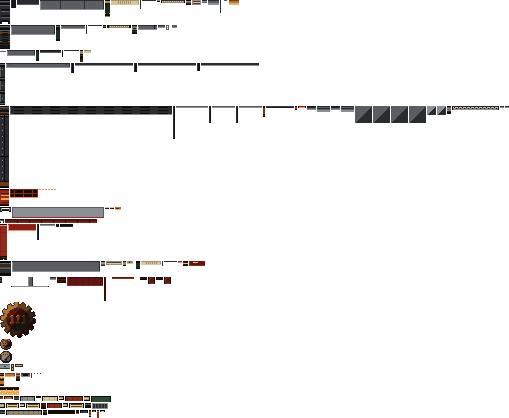
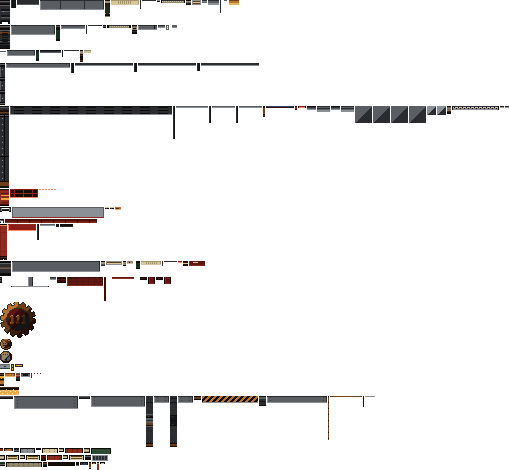
View: vault 39° art: the vault door in volumes

diff --git a/docs/sprites/vault.md b/docs/sprites/vault.md
@@ -176,6 +176,7 @@ To discuss a sprite, open a **Sprite** issue (New issue → Sprite) and paste th
 | <a id="faces-censer"></a>`FACES.CENSER` | 5×2.5 | CENSER, 39° view only: shade top, cage side, cage top. Source: `ui/art/vault/faces.png` | <img src="vault/FACES.CENSER.png" height="32"> |
 | <a id="faces-candles"></a>`FACES.CANDLES` | 2×6.5 | CANDLES, 39° view only: lantern side, lantern top, flare box side, flare box top, flares side, flares top. Source: `ui/art/vault/faces.png` | <img src="vault/FACES.CANDLES.png" height="52"> |
 | <a id="faces-brazier"></a>`FACES.BRAZIER` | 9.5×4 | BRAZIER, 39° view only: barrel top. Source: `ui/art/vault/faces.png` | <img src="vault/FACES.BRAZIER.png" height="32"> |
+| <a id="faces-gate"></a>`FACES.GATE` | 6.5×1.5 | GATE, 39° view only: sill side, sill top, step side, step top, pier L side, pier L top, pier R side, pier R top, threshold side, threshold top, lintel side, lintel top, leaves side, leaves top, panel side, panel top. Source: `ui/art/vault/faces.png` | <img src="vault/FACES.GATE.png" height="160"> |
 | <a id="faces-books"></a>`FACES.BOOKS` | 1.5×1.5 | BOOKS, 39° view only: holotape side, holotape top, case side, case top, sheets side, sheets top, manual side, manual top, binder side, binder top. Source: `ui/art/vault/faces.png` | <img src="vault/FACES.BOOKS.png" height="24"> |
 | <a id="faces-paper_stack"></a>`FACES.PAPER_STACK` | 2.5×2.5 | PAPER_STACK, 39° view only: forms 1 side, forms 1 top, forms 2 side, forms 2 top, folder side, folder top, forms 3 side, forms 3 top, tray side, tray top. Source: `ui/art/vault/faces.png` | <img src="vault/FACES.PAPER_STACK.png" height="24"> |
 | <a id="faces-scroll_pile"></a>`FACES.SCROLL_PILE` | 2.5×2 | SCROLL_PILE, 39° view only: tapes side, tapes top, tapes 2 side, tapes 2 top, tape top side, tape top top, tape up 1 side, tape up 1 top, tape up 2 side, tape up 2 top. Source: `ui/art/vault/faces.png` | <img src="vault/FACES.SCROLL_PILE.png" height="32"> |
